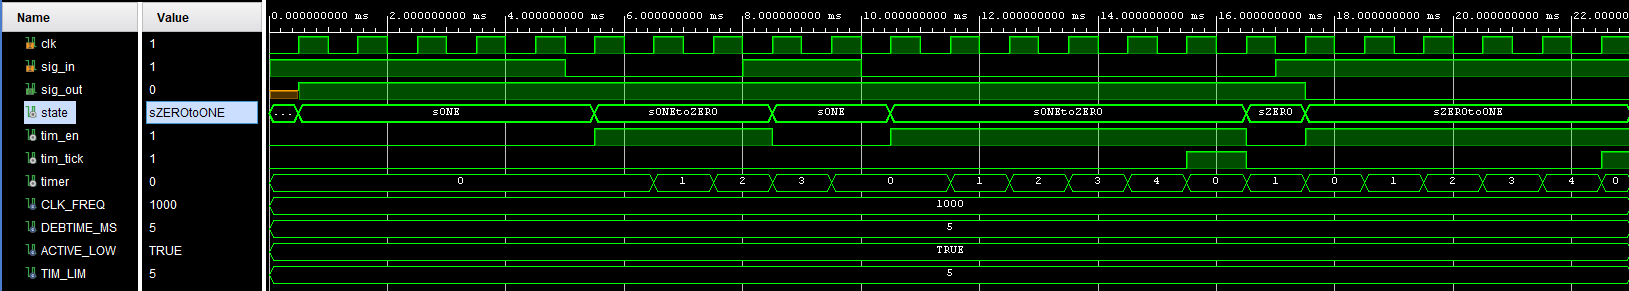
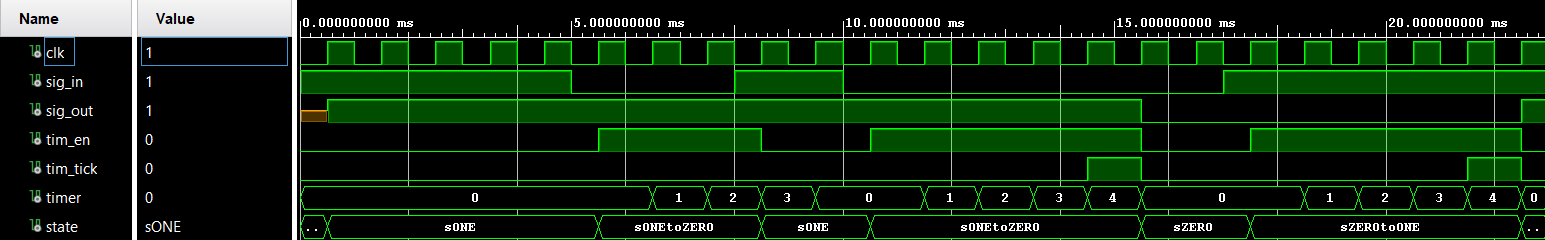
Debouncer project has been updated

diff --git a/vhd03_debouncer/README.md b/vhd03_debouncer/README.md
@@ -1,22 +1,20 @@
 # DEBOUNCER (FSM)
 
-A simple, parameterizable button debouncer built as a finite state machine (FSM) with a clocked timeout counter. It supports both active-low and active-high buttons via a generic.
-
-**Deterministic behavior on edges:** When the raw input toggles, we enter a transition state and wait a fixed time (debounce window). If the input stays stable until the timer expires, we commit to the new stable state; if it bounces back, we cancel.
-
-I put the source files in `src/` folder, in top module and included a 2-FF input to avoid metastability situations since the input button is an asynchronous input.
+When the input toggles, the system enters a transition state and waits a fixed time (debounce window). If the input stays stable until the timer expires, it commits to the new stable state; if it bounces back, it returns to the current stable state.
 
 ## FSM Design
+
+Assuming the buttons are active-low:
 
 States:
 
 * `sONE` and `sZERO` — **stable** states (idle and pressed, respectively)
 * `sONEtoZERO` and `sZEROtoONE` — **transition** states (debounce window running)
-* `sINIT` — start FSM according to `ACTIVE_LOW` generic
+* `sINIT` — initializes FSM according to `ACTIVE_LOW` generic
 
 ### Transition logic (the core idea)
 
-* From `sONE`, if input reads “pressed,” go to `sONEtoZERO`, **enable the timer**, and wait.
+* From `sONE`, if input reads "pressed," go to `sONEtoZERO`, **enable the timer**, and wait.
 
   * If input flips back before timeout → bounce → return to `sONE`.
   * If timer expires while still pressed → accept → go to `sZERO`.
@@ -24,7 +22,7 @@ States:
 
 The timeout counter is sized as:
 
-```bash
+```
 TIM_LIM = (CLK_FREQ / 1000) * DEBTIME_MS
 ```
 
@@ -36,188 +34,57 @@ Example: 12 MHz, 5 ms → `TIM_LIM = 60_000`.
 generic (
   CLK_FREQ   : integer := 12_000_000; -- Hz
   DEBTIME_MS : integer := 5;          -- ms
-  ACTIVE_LOW : boolean := true        -- true for idle='1'/pressed='0'
+  ACTIVE_LOW : boolean := false       -- false for CMOD A7 buttons
 );
 ```
 
-* **Rule of thumb** for buttons: 5–20 ms is common; 10 ms is a safe default.
-* If you’re using CMOD A7’s buttons, keep `ACTIVE_LOW = false`.
+* Since I use CMOD A7's buttons, keep `ACTIVE_LOW = false`.
 
-### Here is the whole code
+## Two-Process Structure & Signal Synchronization
+
+The design is split into two clocked processes: `pMAIN` (FSM) and `pTIMER` (counter). This is a deliberate architectural choice — each process has a single responsibility.
+
+However, this introduces an important VHDL subtlety: **when one process writes a signal, the other process does not see the new value until the next clock cycle.** This is because signal assignments are scheduled — they take effect only after all processes finish their current delta cycle.
+
+In this design, `pTIMER` writes `tim_tick` and `pMAIN` reads it. If `tim_tick` were a registered signal (driven inside `pTIMER`'s clocked block), `pMAIN` would always see it one cycle late — meaning the FSM transition would fire one cycle after the timer actually expired.
+
+To avoid this, `tim_tick` is implemented as a **concurrent signal assignment** outside both processes:
 
 ```vhdl
-library IEEE;
-use IEEE.STD_LOGIC_1164.ALL;
-
-entity debouncer is
-generic(
-    CLK_FREQ   : integer := 12_000_000;    -- Hz
-    DEBTIME_MS : integer := 5;             -- ms   
-    ACTIVE_LOW : boolean := true           
-);
-port(
-    clk     : in  std_logic;
-    sig_in  : in  std_logic;
-    sig_out : out std_logic
-);
-end debouncer;
-
-architecture Behavioral of debouncer is
-
-    type t_state is (sINIT, sONE, sONEtoZERO, sZERO, sZEROtoONE);
-    signal state : t_state := sINIT;
-    
-    signal tim_en  : std_logic := '0';
-    signal tim_tick: std_logic := '0';
-    
-    constant TIM_LIM : integer := CLK_FREQ/(1000)*DEBTIME_MS;
-    signal   timer   : integer range 0 to TIM_LIM-1 := 0;
-begin
-
-    pMAIN: process(clk) begin
-        if rising_edge(clk) then
-            case state is 
-                when sINIT =>
-                    if ACTIVE_LOW = true then
-                            state   <= sONE;
-                            sig_out <= '1';
-                    else
-                            state   <= sZERO;
-                            sig_out <= '0';
-                    end if;
-                    
-                when sONE =>
-                    sig_out <= '1';
-                    
-                    if(sig_in = '0') then
-                        state  <= sONEtoZERO;
-                        tim_en <= '1';
-                    end if;
-                    
-                when sONEtoZERO =>
-                    sig_out <= '1';
-                    
-                    if(sig_in = '1') then
-                        state   <= sONE;
-                        tim_en  <= '0';
-                    elsif(tim_tick = '1') then
-                        state   <= sZERO;
-                        tim_en  <= '0';
-                    end if;
-                    
-                
-                when sZERO      =>
-                    sig_out <= '0';
-                    
-                    if(sig_in = '1') then
-                        state  <= sZEROtoONE;
-                        tim_en <= '1';
-                    end if;
-                    
-                when sZEROtoONE =>
-                    sig_out <= '0';
-                    
-                    if(sig_in = '0') then
-                        state   <= sZERO;
-                        tim_en  <= '0';
-                    elsif(tim_tick = '1') then
-                        state   <= sONE;
-                        tim_en  <= '0';
-                    end if;
-            end case;  
-        end if;
-    end process;
-    
-    pTIMER: process(clk) begin
-        if rising_edge(clk) then
-            if(tim_en = '1') then
-                if(timer = TIM_LIM-1) then
-                    timer    <= 0;
-                    tim_tick <= '1';      
-                else
-                    timer    <= timer + 1;
-                    tim_tick <= '0';
-                end if;                
-            else
-                timer    <= 0;
-                tim_tick <= '0';
-            end if;
-        end if;
-    end process;
-
-end Behavioral;
+tim_tick <= '1' when (timer = TIM_LIM-1 and tim_en = '1') else '0';
 ```
 
-## Testbench
+This makes `tim_tick` combinational — it is asserted in the **same cycle** the timer hits its limit, so `pMAIN` can react immediately on the next rising edge.
 
-The TB drives a few “bounce-like” pulses around the debounce window to show the FSM accepting or rejecting transitions. Clock and debouncing are parameterized via generics just like the DUT.
+> **Rule of thumb:** If two sequential processes communicate through a signal, expect a 1-cycle pipeline delay. When same-cycle reaction is needed, use a concurrent assignment instead.
+
+## Pre-assigning Signals Before a State Transition
+
+Another non-obvious consequence of the 1-cycle delay is the pattern of setting signals **in the current state** rather than at the entry of the next state.
+
+In this design, `tim_en` is enabled in `sONE` at the same time as the state transition — not inside `sONEtoZERO` on entry:
 
 ```vhdl
-library IEEE;
-use IEEE.STD_LOGIC_1164.ALL;
-
-
-entity tb_debouncer is
-generic(
-    CLK_FREQ   : integer := 1000;    -- Hz
-    DEBTIME_MS : integer := 5;             -- ms   
-    ACTIVE_LOW : boolean := true                    
-);
-end tb_debouncer;
-
-architecture Behavioral of tb_debouncer is
-
-    constant CLK_PERIOD : time      := 1 ms;  
-    signal   clk        : std_logic := '1';
-    
-    signal sig_in  : std_logic := '1';
-    signal sig_out : std_logic;
-
-begin
-
-    pSTIMULI: process begin
-        wait for 5 ms;   
-        sig_in <= '0';
-        
-        wait for 3 ms;
-        sig_in <= '1';
-        
-        wait for 2 ms;
-        sig_in <= '0';
-        
-        wait for 5 ms;
-        sig_in <= '0';
-        
-        wait for 2 ms;
-        sig_in <= '1';
-        wait for 6 ms;
-        
-        assert false
-        report "SIM DONE"
-        severity failure;
-    end process;
-
-    pCLK_GEN: process begin
-        clk <= '0';
-        wait for CLK_PERIOD/2;
-        clk <= '1';
-        wait for CLK_PERIOD/2;
-    end process;
-    
-    DUT: entity work.debouncer
-    generic map(
-        CLK_FREQ   => CLK_FREQ  ,
-        DEBTIME_MS => DEBTIME_MS,
-        ACTIVE_LOW => ACTIVE_LOW
-    )
-    port map(
-        clk     => clk   ,
-        sig_in  => sig_in, 
-        sig_out => sig_out
-    );
-
-end Behavioral;
+when sONE =>
+    if (sig_in = '0') then
+        state  <= sONEtoZERO;
+        tim_en <= '1';       -- set HERE, not inside sONEtoZERO
+    end if;
 ```
+
+This feels backwards at first — why set a signal that belongs to the next state while still in the current one? Because of scheduling:
+
+```
+-- Wrong: set tim_en inside sONEtoZERO on entry
+Cycle 1: state transitions to sONEtoZERO, tim_en <= '1' scheduled
+Cycle 2: sONEtoZERO active, tim_en becomes '1' → timer starts one cycle late
+
+-- Correct: set tim_en in sONE alongside the transition
+Cycle 1: state <= sONEtoZERO scheduled, tim_en <= '1' scheduled
+Cycle 2: both take effect simultaneously → FSM is in sONEtoZERO AND tim_en is '1'
+```
+
+> **Rule of thumb:** Any signal that must be ready when you *arrive* at a new state must be scheduled in the cycle you *decide* to transition — i.e. in the current state, not the next one.
 
 ## Simulation
 
@@ -230,13 +97,7 @@ The waveform below shows:
 
 ![simulation](docs/debouncer.png)
 
-Tip: Put `state`, `tim_en`, `tim_tick`, `timer`, `sig_in`, and `sig_out` on your wave—those tell the whole story at a glance.
-
----
-
-## Metastability (important, but out of scope)
-
-This module assumes `sig_in` is already synchronized. In real hardware, **asynchronous** inputs (like buttons) should pass through a **2-FF synchronizer** before hitting the FSM to avoid rare metastability artifacts. If you want a production-ready block, add that in front of `debouncer` (or wrap it inside).
+Tip: Put `state`, `tim_en`, `tim_tick`, `timer`, `sig_in`, and `sig_out` on your wave — those tell the whole story at a glance.
 
 ## References
 
